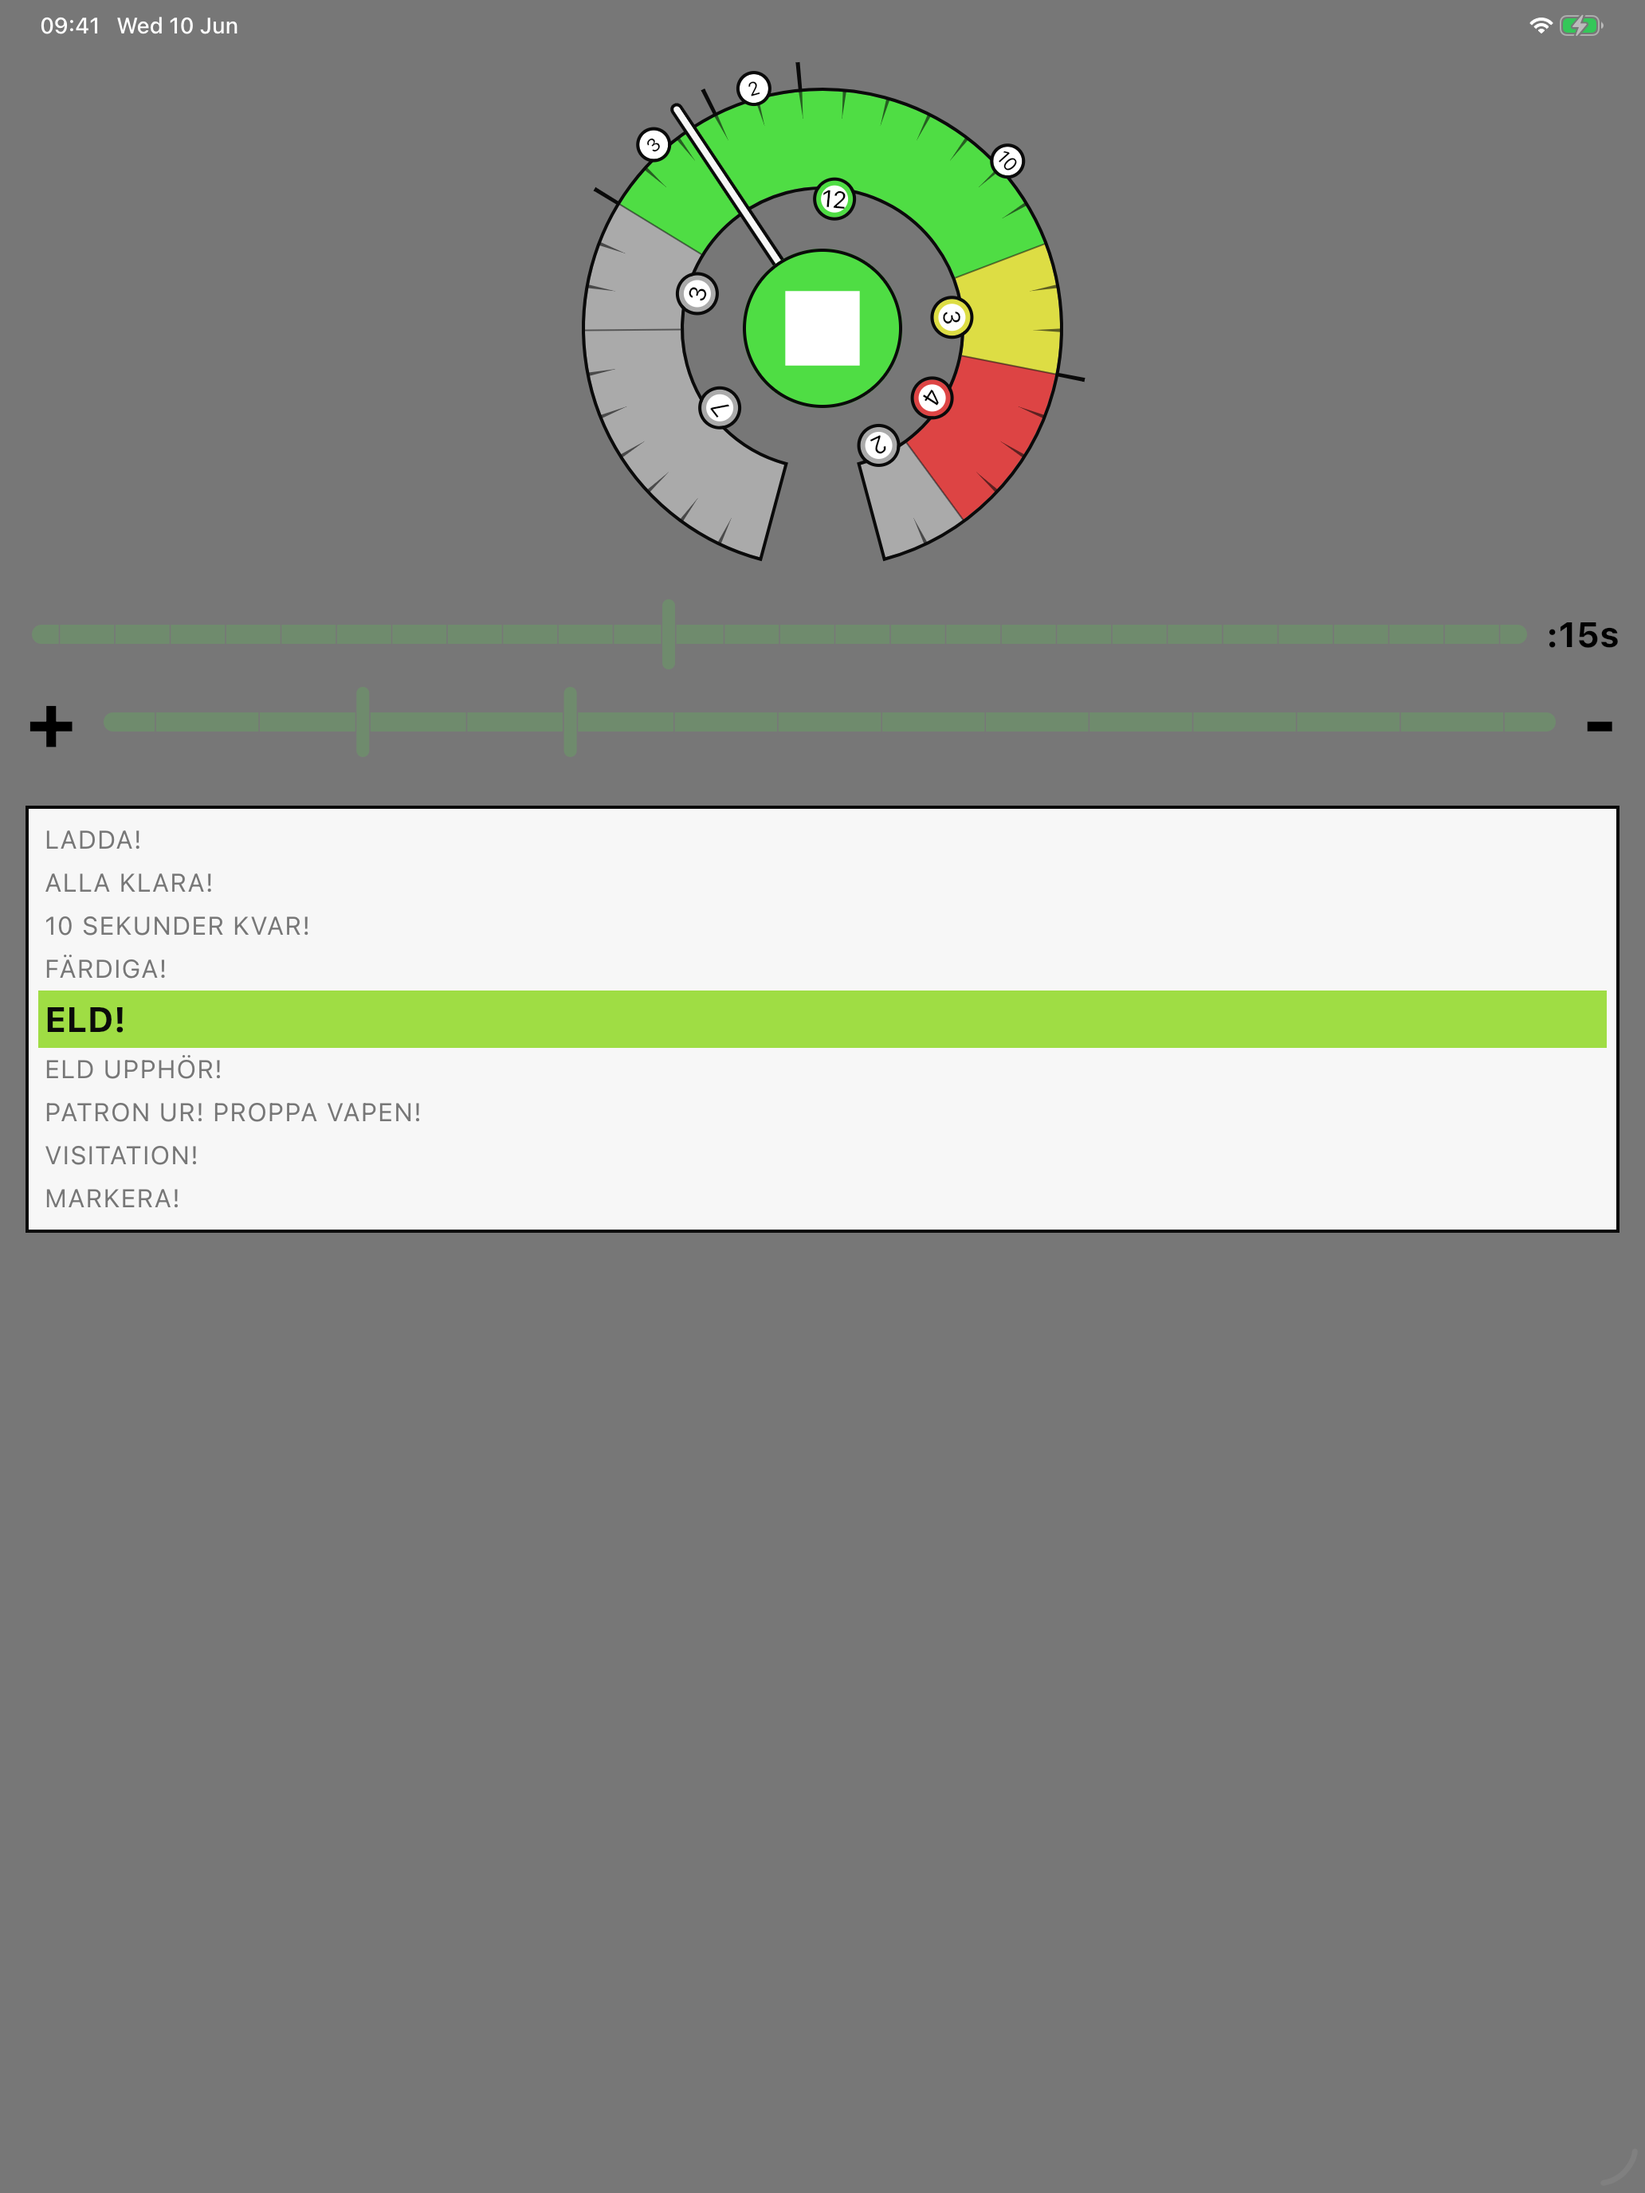
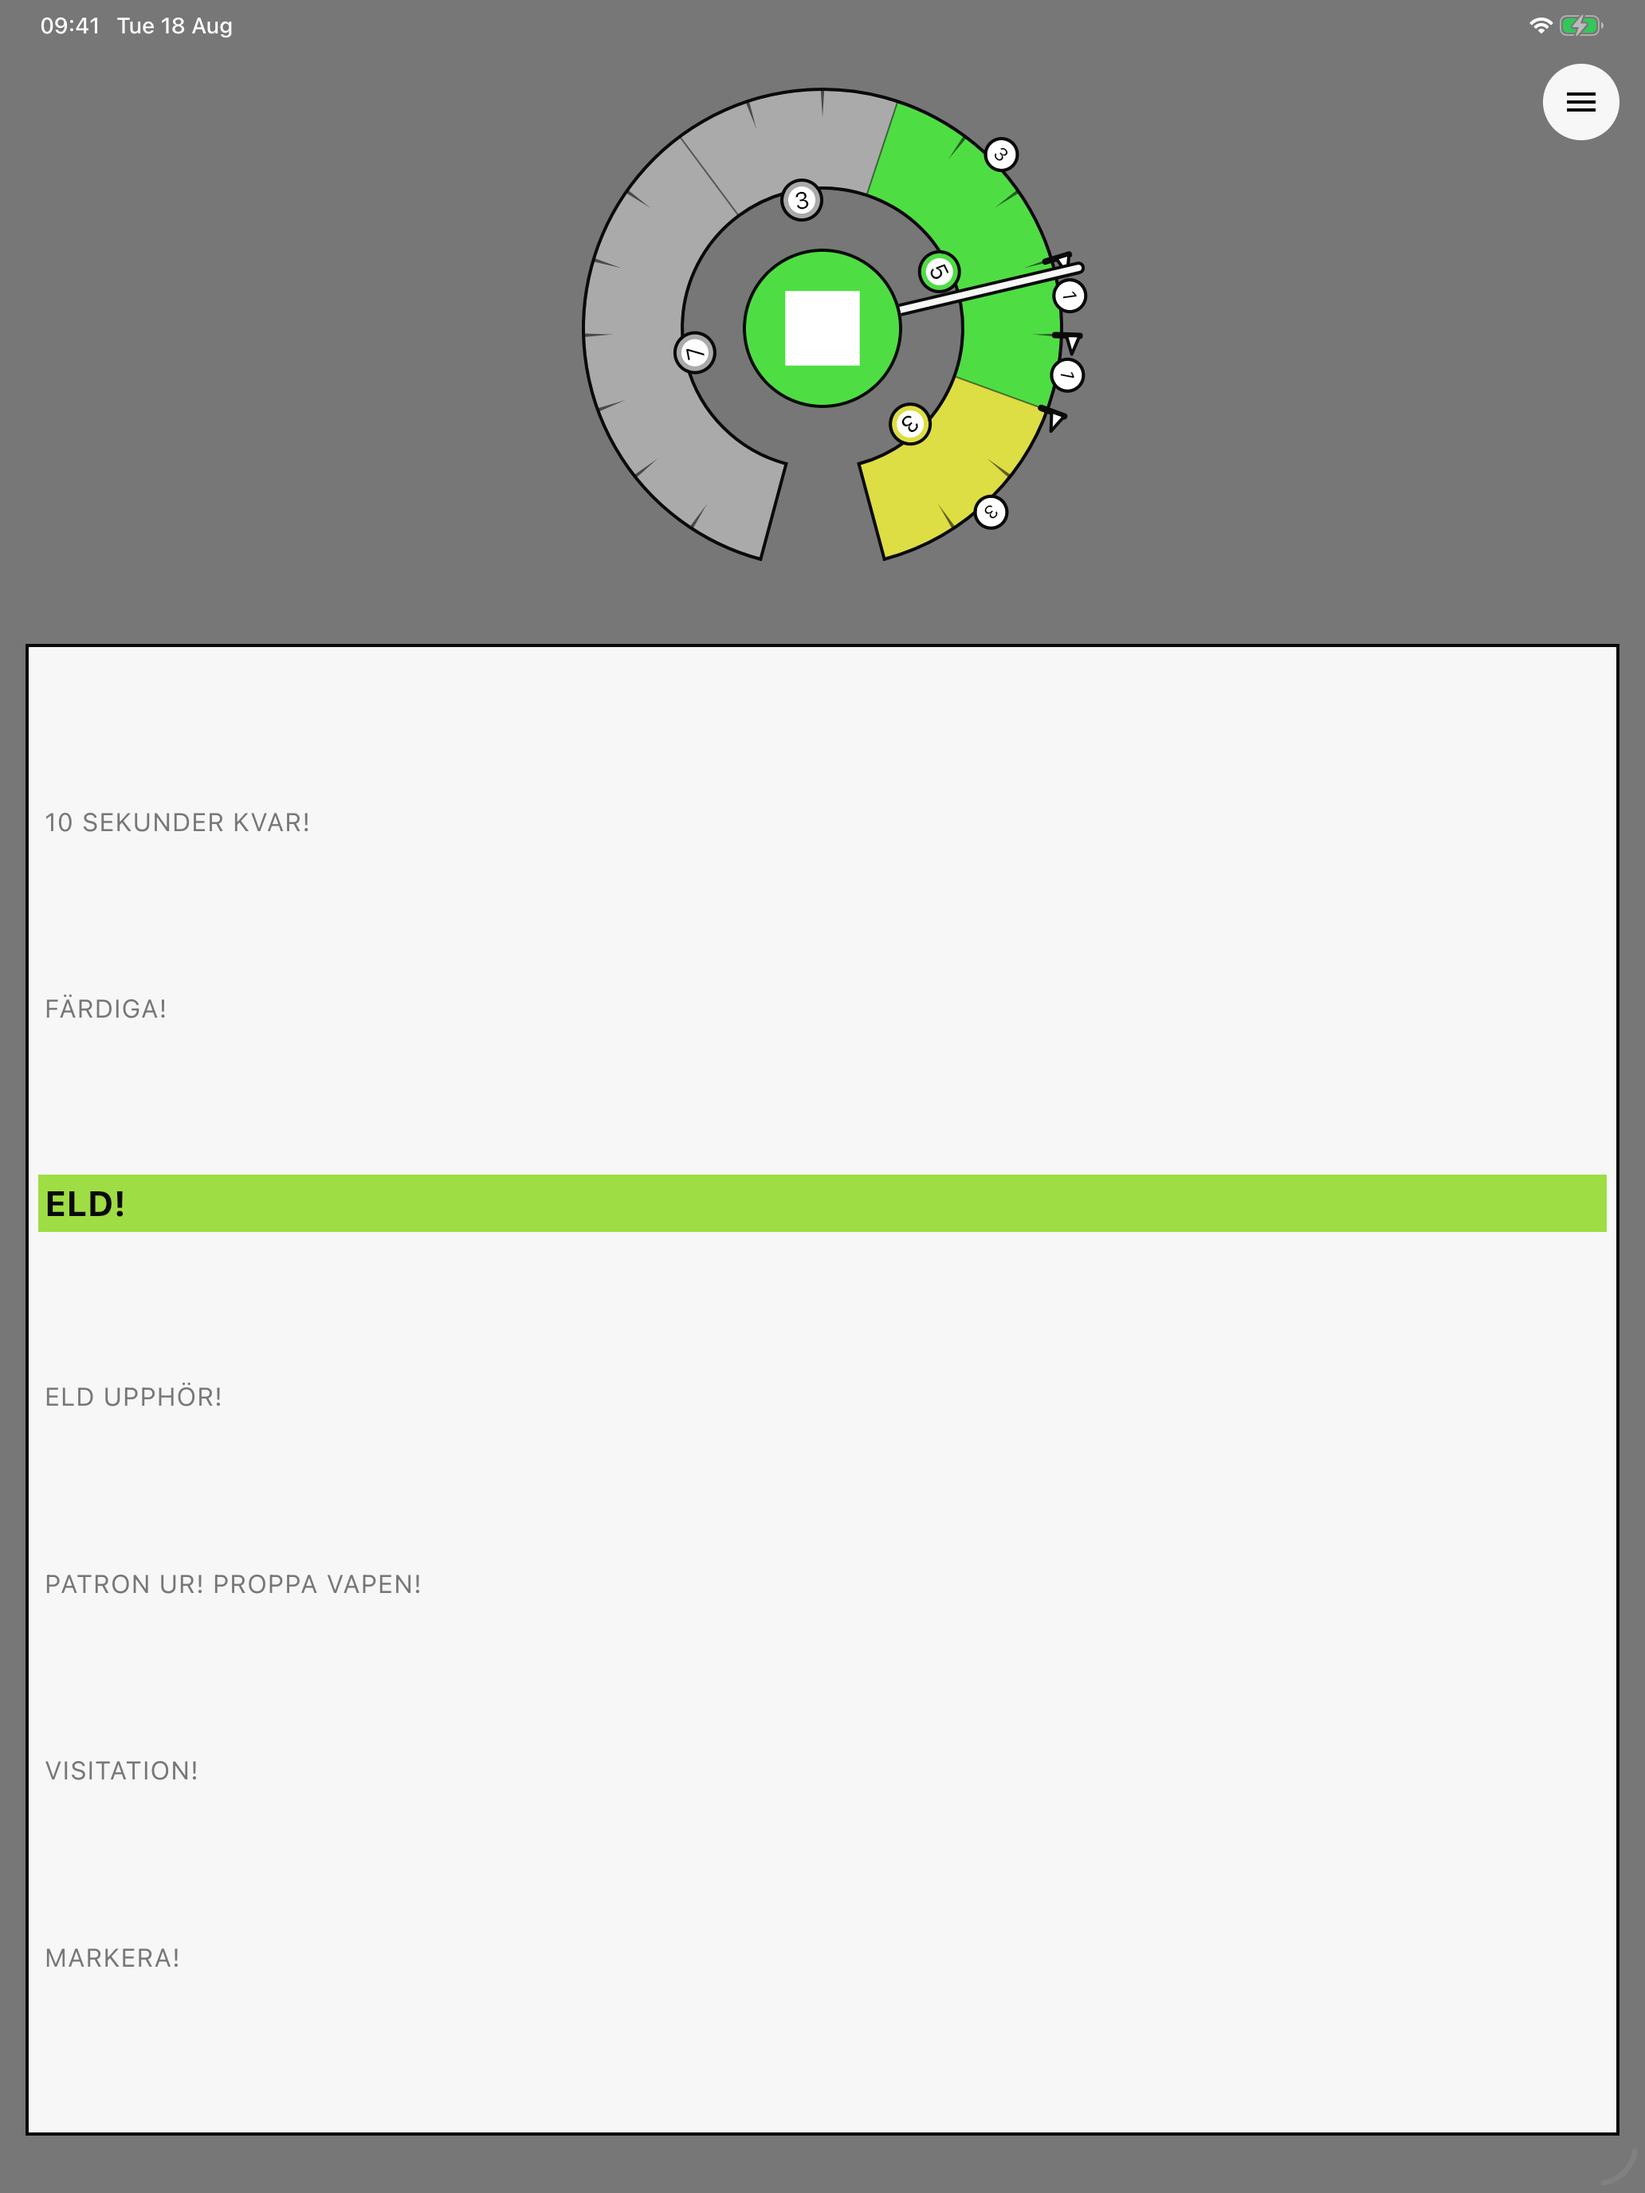
Retake all store screenshots with the current UI; add screenshot UI test
Play phone screenshots (Pixel 9) and App Store iPhone 6.9"/iPad 13"
sets re-captured from the new full-height-list layout: idle with
partid flags, the radial menu open, and moments from a running
sequence (ELD, ELD UPPHOR, PATRON UR, VISITATION). The iOS captures
are driven by a new iosAppUITests bundle (ScreenshotTests) that seeds
settings, rotates, taps play via accessibility, and writes PNGs to
/tmp/shots - runs headless with xcodebuild test.

diff --git a/iosApp/iosAppUITests/ScreenshotTests.swift b/iosApp/iosAppUITests/ScreenshotTests.swift
@@ -1,0 +1,69 @@
+import XCTest
+
+// Drives the app to the states shown in the App Store screenshots and saves
+// raw PNGs to /tmp/shots/ (simulator processes write straight to the host
+// filesystem). Runs headless:
+//   xcodebuild test -scheme iosApp -destination id=<udid> \
+//     -only-testing:iosAppUITests/ScreenshotTests/<method>
+// Timings assume the seeded settings: training mode, 5 s fire time, so the
+// command sequence is 0-7 TenSecondsLeft, 7-10 Ready, 10-15 Fire,
+// 15-18 CeaseFire, 18-22 Unload, 22-24 Visitation.
+final class ScreenshotTests: XCTestCase {
+
+    override func setUpWithError() throws {
+        continueAfterFailure = false
+        try FileManager.default.createDirectory(
+            atPath: "/tmp/shots", withIntermediateDirectories: true)
+    }
+
+    func testLandscapeRunScreenshots() throws {
+        let app = XCUIApplication()
+        app.launch()
+        sleep(3)
+        XCUIDevice.shared.orientation = .landscapeLeft
+        sleep(3)
+        save("ip_03_landscape")
+        tapPlay(app)
+        sleep(13); save("ip_04_landscape")  // ELD!
+        sleep(4);  save("ip_05_landscape")  // ELD UPPHÖR!
+        sleep(4);  save("ip_06_landscape")  // PATRON UR! PROPPA VAPEN!
+        sleep(2);  save("ip_07_landscape")  // VISITATION!
+    }
+
+    func testPortraitRunScreenshots() throws {
+        let app = XCUIApplication()
+        app.launch()
+        sleep(3)
+        XCUIDevice.shared.orientation = .portrait
+        sleep(2)
+        save("ipad_01_idle")
+        let menu = app.descendants(matching: .any)["RadialMenuButton"].firstMatch
+        if menu.waitForExistence(timeout: 3) {
+            menu.tap()
+            sleep(2)
+            save("ipad_02_menu")
+            app.coordinate(withNormalizedOffset: CGVector(dx: 0.5, dy: 0.85)).tap()
+            sleep(2)
+        }
+        tapPlay(app)
+        sleep(13); save("ipad_03_eld")
+        sleep(4);  save("ipad_04_eldupphor")
+        sleep(4);  save("ipad_05_patronur")
+        sleep(2);  save("ipad_06_visitation")
+    }
+
+    private func tapPlay(_ app: XCUIApplication) {
+        let play = app.descendants(matching: .any)["PlayButton"].firstMatch
+        if play.waitForExistence(timeout: 3) {
+            play.tap()
+        } else {
+            // Fallback: the play button's rough spot in the landscape layout.
+            app.coordinate(withNormalizedOffset: CGVector(dx: 0.135, dy: 0.44)).tap()
+        }
+    }
+
+    private func save(_ name: String) {
+        let png = XCUIScreen.main.screenshot().pngRepresentation
+        try? png.write(to: URL(fileURLWithPath: "/tmp/shots/\(name).png"))
+    }
+}
